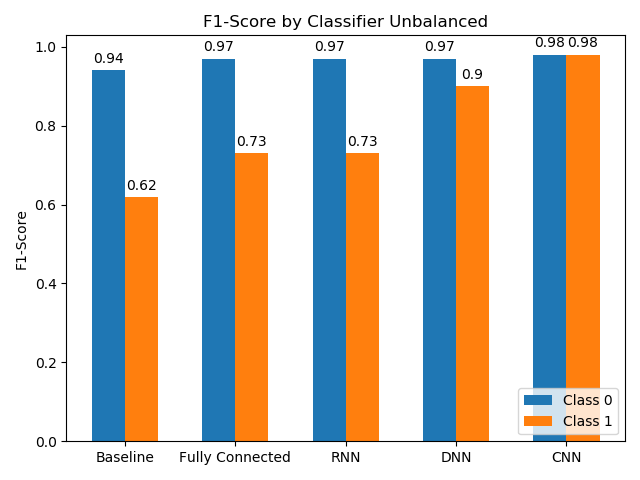
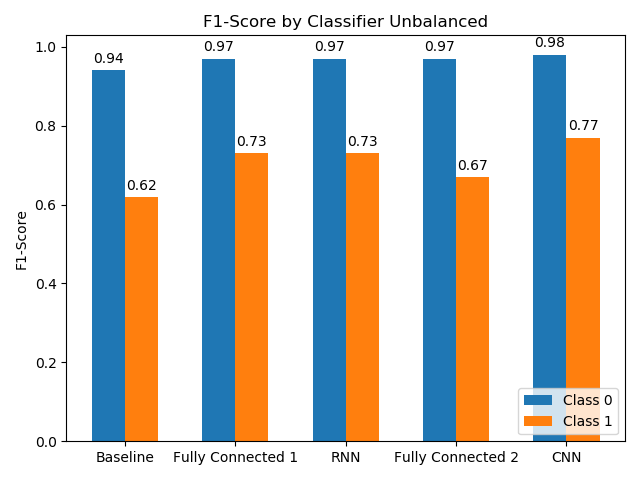
Added final version of labreport

diff --git a/AI-Lab2.html b/AI-Lab2.html
@@ -114,7 +114,7 @@
         <div class="container">
             <h2>AI-Lab2 &mdash; Supervised Learning</h2>
             <h5 class="author">By Dano Roost, Jennifer Schürch & Yves Lütjens</h5>
-            <h5 class="author">27.04.2020</h5>
+            <h5 class="author">04.05.2020</h5>
 
             <div class="blogpost">
                 <p>
@@ -126,22 +126,27 @@
                 <h4>Approach</h4>
                 <p>
                     We tried different approaches to achieve the highest possible score and compared them against each other.
-                    Furthermore we created a balanced dataset that has a 50-50 ratio of hate speeches versus non-hate speeches,
+                    Furthermore, we created a balanced dataset that has a 50-50 ratio of hate speeches versus non-hate speeches,
                     thus giving a less biased view how well the classifiers perform.
+                    In total we implemented four different approaches:
                 </p>
-
+                <ul>
+                    <li>Two different fully connected Neural Network with different layer sizes and TFIDF-Vectors</li>
+                    <li>A Recurrent Neural Network (RNN) with pretrained word embeddings (GloVe)</li>
+                    <li>A Convolutional Neural Network (CNN) with pretrained word embeddings (GloVe)</li>
+                </ul>
                 <p>
-                    In total we implemented four different approaches: a Fully Connected Neural Network,
-                    a Regressive Neural Network (RNN), a Deep Neural Network (DNN) and a Convolutional Neural Network (CNN).
-                    The fully connected and DNN are based on the Keras deep learning library, while the RNN and CNN are based on the PyTorch library.
-                    The implementation of the models can be found <a href="https://github.com/Danoishere/KI2_Lab2_FS2020">here<a>.
+                    The two fully connected NNs are implemented in Keras, the RNN and the CNN are implemented in PyTorch.
+                    These two networks use TorchText for pre-processing and word embedding/padding/etc.
                 </p>
 
                 <h4>Evaluation</h4>
                 <p>
-                    As seen in the following plots, using a balanced or unbalanced dataset heavily impacts the performance of the classifiers.
-                    The baseline as well as the fully connected and regressive neural network struggle with the unbalanced dataset in class 1.
-                    The DNN and CNN on the other hand drop with the balanced dataset in class 0.
+                    All evaluations are performed on a separate test set. As seen in the following plots,
+                    using a balanced or unbalanced dataset heavily impacts the performance of the classifiers.
+                    The baseline as well as the fully connected 2 NN struggle with the unbalanced dataset in class 1.
+                    The RNN and the CNN on the other hand, are performing better but still perform quite far from perfect,
+                    at least in the unbalanced case.
                 </p>
                 <figure>
                     <div class="single-slide">
@@ -158,9 +163,11 @@
                     </div>
                 </figure>
                 <p>
-                    Analysing the accuracy of the classifiers as seen in the following plot, the CNN performs the best, followed by the RNN.
+                    Analysing the accuracy of the classifiers as seen in the following plot,
+                    the CNN performs the best, followed by the RNN.
                     Surprisingly the baseline algorithm loses the least accuracy if comparing the balanced dataset with the unbalanced one,
-                    but all proposed solutions outrun the baseline in terms of accuracy. This leads to the conclusion that a CNN is best suited for the task at hand,
+                    but all proposed solutions outrun the baseline in terms of accuracy.
+                    This leads to the conclusion that a CNN is best suited for the task at hand,
                     but all of the applied techniques perform well for the given problem statement.
                 </p>
                 <figure>
@@ -174,7 +181,70 @@
                         </div>
                     </div>
                 </figure>
+
+                <h4>Learning Curve CNN</h4>
+                <p>
+                    To verify our CNN approach we analysed the learning curves of the accuracy and the loss function from the CNN.
+                    We conclude, that the loss curve settles after 800 batches, which means that the amount of training data is right.
+                    Furthermore we can say that the Model doesn’t over- or underfit as the train and test data curves are very similar.
+                </p>
+                <figure>
+                    <div class="single-slide">
+                        <div class="container-fluid">
+                            <div class="row">
+                                <div class="col-md-6">
+                                    <img class="article-image" src="images/blogs/ai/lab2_learning_curve_cnn_acc.png" alt="Learning Curve CNN Accuracy">
+                                </div>
+                                <div class="col-md-6">
+                                    <img class="article-image" src="images/blogs/ai/lab2_learning_curve_cnn_loss.png" alt="Learning Curve CNN Loss">
+                                </div>
+                            </div>
+                        </div>
+                    </div>
+                </figure>
+                <h4>Console Application</h4>
+                <p>
+                    Additionally, we made a small console application, which returns the hate speech score and up to three words hate words from a given sentence.
+                    There is a pool of words, which strongly correlate with hate speech for example: faggot, ass, stupid, idiot, shit, gay, hell, screw etc.
+                    When these words are present in a given sentence, the hate speech score gets automatically boosted regardless of the context used in the sentence.
+                    Below is an example with the word "gay" and "stupid":
+                </p>
+                <div class="col-md-12">
+                    <table class="article-statistic">
+                        <tr>
+                            <th>Example</th>
+                            <th>Score</th>
+                            <th>Example</th>
+                            <th>Score</th>
+                        </tr>
+                        <tr>
+                            <td>gay</td>
+                            <td>0.34</td>
+                            <td>stupid</td>
+                            <td>0.86</td>
+                        </tr>
+                        <tr>
+                            <td>You are gay</td>
+                            <td>0.55</td>
+                            <td>You are stupid</td>
+                            <td>0.94</td>
+                        </tr>
+                        <tr>
+                            <td>I am gay</td>
+                            <td>0.55</td>
+                            <td>I am stupid</td>
+                            <td>0.94</td>
+                        </tr>
+                        <tr>
+                            <td>The word gay had originally a different meaning</td>
+                            <td>0.54</td>
+                            <td>I have never felt so stupid in my life</td>
+                            <td>0.90</td>
+                        </tr>
+                    </table>
+                </div>
             </div>
+
             <div id="disqus_thread"></div>
             <script>
                 /**

diff --git a/css/styles.css b/css/styles.css
@@ -108,6 +108,16 @@ ol li {
     list-style: none;
 }
 
+.blogpost li {
+    list-style: inside;
+    list-style-position: inside;
+    color: #404040;
+    font-size: 18px;
+    line-height: 1.5;
+    font-weight: 400;
+    margin-bottom: 20px;
+}
+
 .article-image-rect {
     width: 300px;
 }
@@ -925,11 +935,11 @@ img {
 }
 
 .author {
-    margin-top:0px;
+    margin-top: 0px;
 }
 
 .transparent-background {
-  background: rgba(256, 256, 256, 0.8);
+    background: rgba(256, 256, 256, 0.8);
 }
 
 /* :: 7.0 Footer Area CSS */
